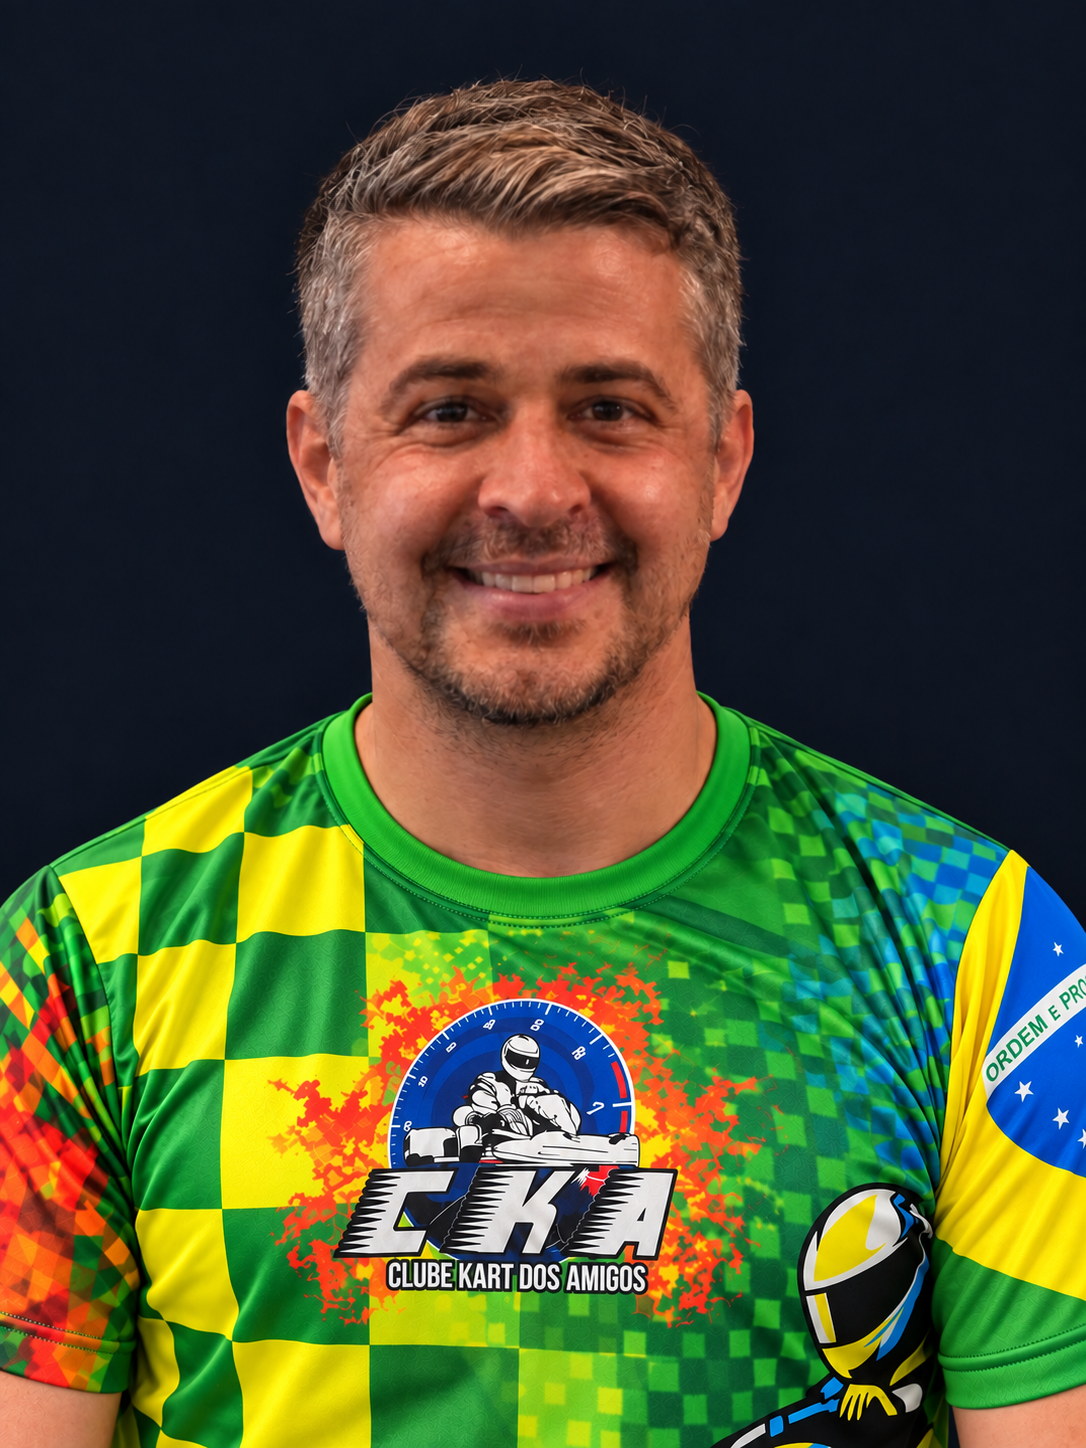
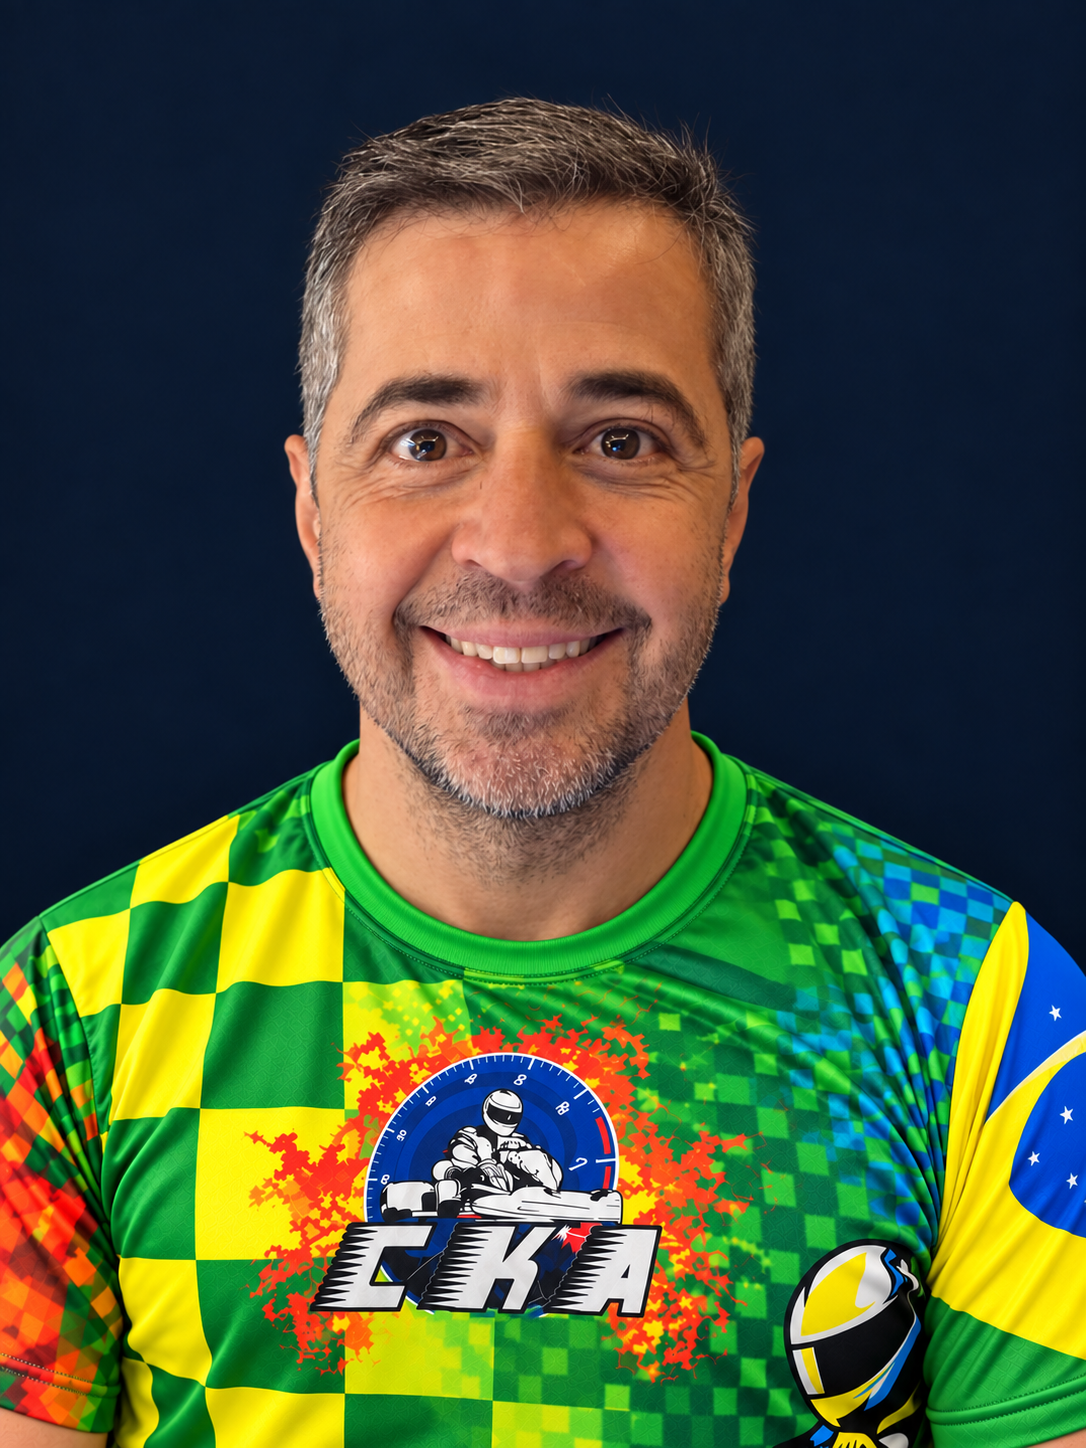
Add files via upload

diff --git a/assets/fix-site-data.js b/assets/fix-site-data.js
@@ -1,0 +1,244 @@
+(function () {
+  'use strict';
+
+  var stageScoresByTeam = {};
+  var scoreByTeam = {};
+  function teamKey(value) {
+    return String(value || '').toLowerCase().normalize('NFD').replace(/[\u0300-\u036f]/g, '').replace(/and/g, '').replace(/[^a-z0-9]/g, '');
+  }
+  var officialBonus = { 'Adilson Mangiavaki': 25, 'Derson': 25 };
+  document.querySelectorAll('#classification .row:not(.headrow)').forEach(function (row) {
+    var name = row.querySelector('.pilot strong');
+    var team = row.querySelector('.team');
+    if (!name) return;
+    if (name.textContent.trim() === 'Adilson Mangiavaki') {
+      if (team) team.textContent = 'EFK';
+      var bonus = row.querySelector('.bonus');
+      var warning = row.querySelector('.warning');
+      var points = row.querySelectorAll('.points');
+      var discards = row.querySelectorAll('.discard');
+      var penalty = parseInt(warning && warning.textContent, 10) || 0;
+      var d1 = parseInt(discards[0] && discards[0].textContent, 10) || 0;
+      var d2 = parseInt(discards[1] && discards[1].textContent, 10) || 0;
+      if (bonus) bonus.textContent = officialBonus['Adilson Mangiavaki'];
+      if (points[1]) points[1].textContent = officialBonus['Adilson Mangiavaki'] - penalty;
+      if (points[0]) points[0].textContent = (parseInt(points[0].textContent, 10) || 0) + 5;
+    }
+    if (name.textContent.trim() === 'Derson') {
+      var dBonus = row.querySelector('.bonus');
+      var dWarning = row.querySelector('.warning');
+      var dPoints = row.querySelectorAll('.points');
+      var dDiscards = row.querySelectorAll('.discard');
+      var dPenalty = parseInt(dWarning && dWarning.textContent, 10) || 0;
+      var dd1 = parseInt(dDiscards[0] && dDiscards[0].textContent, 10) || 0;
+      var dd2 = parseInt(dDiscards[1] && dDiscards[1].textContent, 10) || 0;
+      if (dBonus) dBonus.textContent = officialBonus.Derson;
+      if (dPoints[1]) dPoints[1].textContent = officialBonus.Derson - dPenalty;
+      if (dPoints[0]) dPoints[0].textContent = (parseInt(dPoints[0].textContent, 10) || 0) + 5;
+    }
+  });
+
+  function refreshTeamScores() {
+    var teamStages = {};
+    document.querySelectorAll('#classification .row:not(.headrow)').forEach(function (row) {
+      var team = row.querySelector('.team');
+      if (!team) return;
+      var key = teamKey(team.textContent);
+      var cells = row.querySelectorAll('.stage');
+      Array.prototype.forEach.call(cells, function (cell, index) {
+        var pos = parseInt(cell.textContent, 10);
+        var points = pos > 0 && pos <= 20 ? 21 - pos : 0;
+        if (!teamStages[key]) teamStages[key] = [];
+        if (!teamStages[key][index]) teamStages[key][index] = [];
+        teamStages[key][index].push(points);
+      });
+    });
+    var teamBox = document.querySelector('#teams');
+    if (!teamBox) return;
+    teamBox.querySelectorAll('.teamrow:not(.headrow)').forEach(function (row) {
+      var details = row.querySelector('.team-details, details');
+      var name = details && details.querySelector('summary') ? details.querySelector('summary').textContent : row.children[1] && row.children[1].textContent;
+      var values = teamStages[teamKey(name)] || [];
+      var total = values.reduce(function (sum, stage) {
+        return sum + (stage || []).sort(function (a, b) { return b - a; }).slice(0, 2).reduce(function (a, b) { return a + b; }, 0);
+      }, 0);
+      var points = row.querySelector('.points');
+      if (points) points.textContent = String(total);
+    });
+  }
+  refreshTeamScores();
+
+  var efkRow = Array.prototype.slice.call(document.querySelectorAll('#teams .teamrow:not(.headrow)')).find(function (row) {
+    var details = row.querySelector('.team-details, details');
+    var name = details && details.querySelector('summary') ? details.querySelector('summary').textContent : row.children[1] && row.children[1].textContent;
+    return teamKey(name) === teamKey('EFK');
+  });
+  if (efkRow) {
+    var list = efkRow.querySelector('ul');
+    if (list && !Array.prototype.some.call(list.children, function (li) { return li.textContent.indexOf('Adilson Mangiavaki') >= 0; })) {
+      var item = document.createElement('li');
+      item.innerHTML = '<span class="placeholder"></span>Adilson Mangiavaki';
+      list.appendChild(item);
+    }
+  }
+  document.querySelectorAll('#classification .row:not(.headrow)').forEach(function (row) {
+    var team = row.querySelector('.team');
+    var stages = row.querySelectorAll('.stage');
+    if (!team) return;
+    var key = teamKey(team.textContent);
+    if (!stageScoresByTeam[key]) stageScoresByTeam[key] = [];
+    Array.prototype.forEach.call(stages, function (cell, stageIndex) {
+      var position = parseInt(cell.textContent, 10);
+      var points = position > 0 && position <= 20 ? 21 - position : 0;
+      if (!stageScoresByTeam[key][stageIndex]) stageScoresByTeam[key][stageIndex] = [];
+      stageScoresByTeam[key][stageIndex].push(points);
+    });
+  });
+
+  Object.keys(stageScoresByTeam).forEach(function (key) {
+    scoreByTeam[key] = stageScoresByTeam[key].reduce(function (seasonTotal, stageScores) {
+      return seasonTotal + (stageScores || []).sort(function (a, b) { return b - a; })
+        .slice(0, 2).reduce(function (stageTotal, points) { return stageTotal + points; }, 0);
+    }, 0);
+  });
+
+  var teamBox = document.querySelector('#teams');
+  if (teamBox) {
+    var header = teamBox.querySelector('.teamrow.headrow');
+    if (header && header.children.length < 3) {
+      var label = document.createElement('span');
+      label.textContent = 'Pontos';
+      header.appendChild(label);
+    }
+
+    var teamRows = Array.prototype.slice.call(teamBox.querySelectorAll('.teamrow:not(.headrow)'));
+    teamRows.sort(function (a, b) {
+      function rowScore(row) {
+        var details = row.querySelector('.team-details, details');
+        var name = details && details.querySelector('summary')
+          ? details.querySelector('summary').textContent
+          : row.children[1] && row.children[1].textContent;
+        return scoreByTeam[teamKey(name)] || 0;
+      }
+      return rowScore(b) - rowScore(a);
+    });
+    teamRows.forEach(function (row, index) {
+      var details = row.querySelector('.team-details, details');
+      var name = details && details.querySelector('summary')
+        ? details.querySelector('summary').textContent
+        : row.children[1] && row.children[1].textContent;
+      var score = scoreByTeam[teamKey(name)];
+      if (score === undefined) return;
+
+      var position = row.querySelector('.team-position') || row.querySelector('b');
+      if (position) position.textContent = (index + 1) + 'º';
+
+      var points = row.querySelector('.points');
+      if (!points) {
+        points = document.createElement('strong');
+        points.className = 'points';
+        if (details) details.insertAdjacentElement('afterend', points);
+        else row.appendChild(points);
+      }
+      points.textContent = String(score);
+      points.setAttribute('aria-label', score + ' pontos');
+      points.style.cssText = 'display:block!important;visibility:visible!important;opacity:1!important;grid-column:3;grid-row:1;text-align:right;color:var(--gold);font-size:18px';
+      teamBox.appendChild(row);
+    });
+  }
+
+  var officialTimes = {
+    3: [
+      ['Luiz Felipe', '00:46.511', '—'], ['Marcelo Albuquerque', '00:46.640', '00:07.209'],
+      ['Miro', '00:46.833', '00:09.865'], ['Leonardo Rocha', '00:46.770', '00:12.142'],
+      ['Ricardo Finim', '00:46.739', '00:12.532'], ['Alessandro Soares', '00:47.464', '00:30.087'],
+      ['João Victor Barbosa', '00:46.885', '00:30.172'], ['André Afonso', '00:47.683', '00:34.845'],
+      ['Pedro Pitanga', '00:47.575', '00:35.162'], ['Adilson Mangiavaki', '00:47.856', '00:42.788'],
+      ['Bernardo Gaertner', '00:47.899', '1 volta'], ['André Mitta', '00:47.749', '1 volta'],
+      ['José Geraldo', '00:47.278', '1 volta'], ['Henrique Arroz', '00:48.754', '1 volta'],
+      ['Hiltinho', '00:49.228', '1 volta']
+    ],
+    4: [
+      ['Marcelo Albuquerque', '00:46.518', '—'], ['João Victor Barbosa', '00:47.165', '00:11.071'],
+      ['Miro', '00:47.080', '00:16.511'], ['Leonardo Rocha', '00:47.249', '00:16.842'],
+      ['Ricardo Finim', '00:47.000', '00:17.877'], ['Pedro Pitanga', '00:47.485', '00:26.670'],
+      ['André Afonso', '00:46.879', '00:31.515'], ['Bernardo Gaertner', '00:47.510', '00:32.605'],
+      ['Luiz Felipe', '00:47.235', '00:34.868'], ['André Mitta', '00:47.406', '00:38.048'],
+      ['Henrique Arroz', '00:47.780', '00:38.551'], ['Sardinha', '00:48.037', '00:41.212'],
+      ['Alessandro Soares', '00:47.621', '00:43.901'], ['Anderson Poubel', '00:47.958', '1 volta']
+    ],
+    6: [
+      ['Marcelo Albuquerque', '00:47.532', '—'], ['Miro', '00:47.433', '+00:03.182'],
+      ['Leonardo Rocha', '00:47.697', '+00:06.981'], ['André Afonso', '00:47.561', '+00:08.205'],
+      ['Luiz Costa', '00:47.343', '+00:10.367'], ['João Araujo', '00:47.811', '+00:11.284'],
+      ['Alexandre Reis', '00:47.791', '+00:11.422'], ['Alessandro Soares', '00:47.644', '+00:16.245'],
+      ['Ricardo Menezes', '00:47.924', '+00:22.316'], ['Henrique Oliveira', '00:48.216', '+00:24.184'],
+      ['Sardinha', '00:48.272', '+00:31.822'], ['Anderson Poubel', '00:48.556', '+00:32.727'],
+      ['Bernardo Gaertner', '00:48.174', '+00:39.397'], ['Pedro Pitanga', '00:48.740', '+00:43.777'],
+      ['José Silva', '00:48.373', '1 volta'], ['André Rodrigues', '00:48.608', '+00:12.072'],
+      ['Adilson Filho', '00:48.931', '+00:12.309'], ['Antonio Junior', '00:47.154', '+00:43.919'],
+      ['Anderson Pires', '00:49.432', '+00:48.838']
+    ]
+  };
+
+  var resultBox = document.querySelector('#results');
+  var buttonBox = document.querySelector('#resultbuttons');
+  if (!resultBox || !buttonBox) return;
+  var timeNote = document.createElement('p');
+  timeNote.className = 'note';
+  timeNote.textContent = 'Os tempos de volta desta etapa ainda não foram cadastrados.';
+  resultBox.parentNode.insertBefore(timeNote, resultBox);
+
+  function currentStandings(stageIndex) {
+    return Array.from(document.querySelectorAll('#classification .row:not(.headrow)'))
+      .map(function (row) {
+        var places = row.querySelectorAll('.stage');
+        var position = places[stageIndex] && parseInt(places[stageIndex].textContent, 10);
+        var pilot = row.querySelector('.pilot strong');
+        return position && pilot ? { position: position, name: pilot.textContent.trim() } : null;
+      })
+      .filter(Boolean)
+      .sort(function (a, b) { return a.position - b.position; });
+  }
+
+  function renderResults(stageIndex) {
+    timeNote.hidden = !officialTimes[stageIndex];
+    var list = officialTimes[stageIndex]
+      ? officialTimes[stageIndex].map(function (item, index) {
+          return { position: index + 1, name: item[0], best: item[1], difference: item[2] };
+        })
+      : currentStandings(stageIndex).map(function (item) {
+          return { position: item.position, name: item.name, best: '—', difference: '—' };
+        });
+
+    var html = '<div class="resultrow"><span>Posição</span><span>Piloto</span><span>Melhor volta</span><span>Diferença</span></div>';
+    html += list.map(function (item) {
+      return '<div class="resultrow"><b>' + item.position + 'º</b>' +
+        '<span class="result-pilot"><span class="placeholder"></span><strong>' + item.name + '</strong></span>' +
+        '<span>' + item.best + '</span><span>' + item.difference + '</span></div>';
+    }).join('');
+    resultBox.innerHTML = html;
+  }
+
+  function selectStage(button) {
+    var match = button.textContent.match(/Etapa\s+(\d+)/i);
+    if (!match) return;
+    var stageIndex = parseInt(match[1], 10) - 1;
+    if (stageIndex > 6) return;
+    buttonBox.querySelectorAll('.result-btn').forEach(function (item) {
+      item.classList.toggle('active', item === button);
+    });
+    renderResults(stageIndex);
+  }
+
+  buttonBox.addEventListener('click', function (event) {
+    var button = event.target && event.target.closest && event.target.closest('.result-btn');
+    if (!button || button.disabled) return;
+    event.preventDefault();
+    event.stopImmediatePropagation();
+    selectStage(button);
+  }, true);
+
+  var activeButton = buttonBox.querySelector('.result-btn.active');
+  selectStage(activeButton || buttonBox.querySelector('.result-btn'));
+})();
